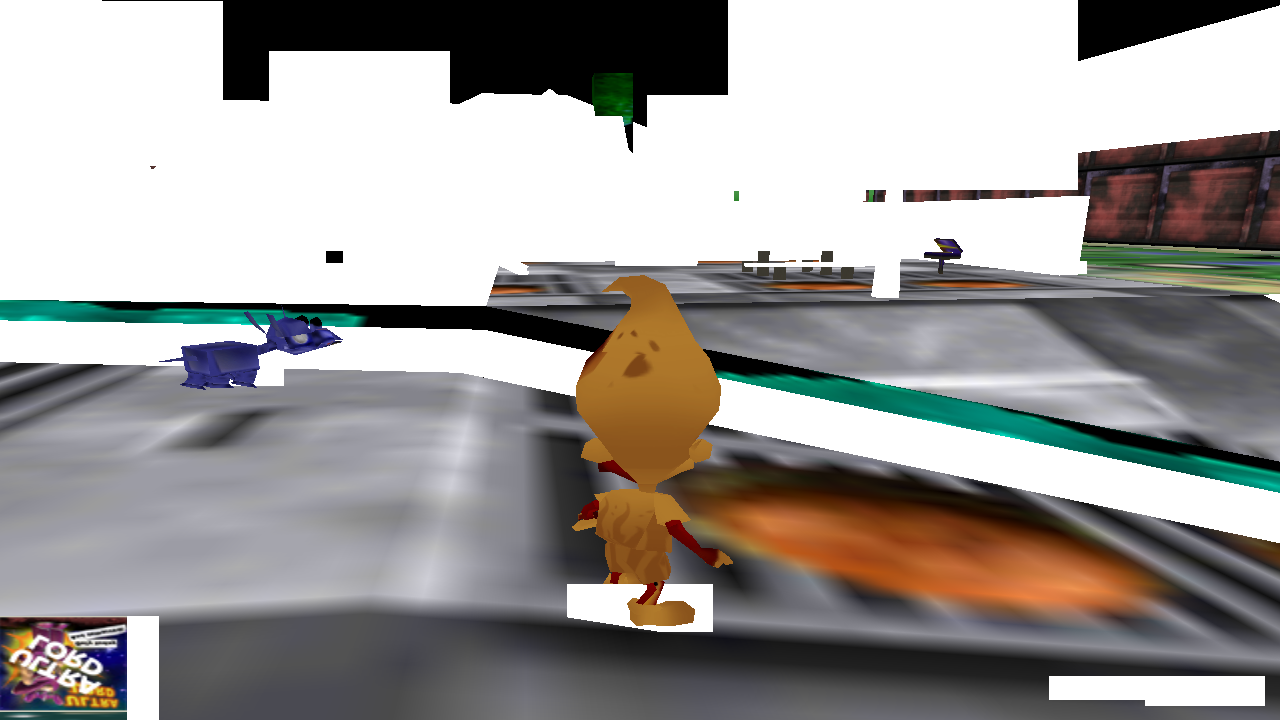
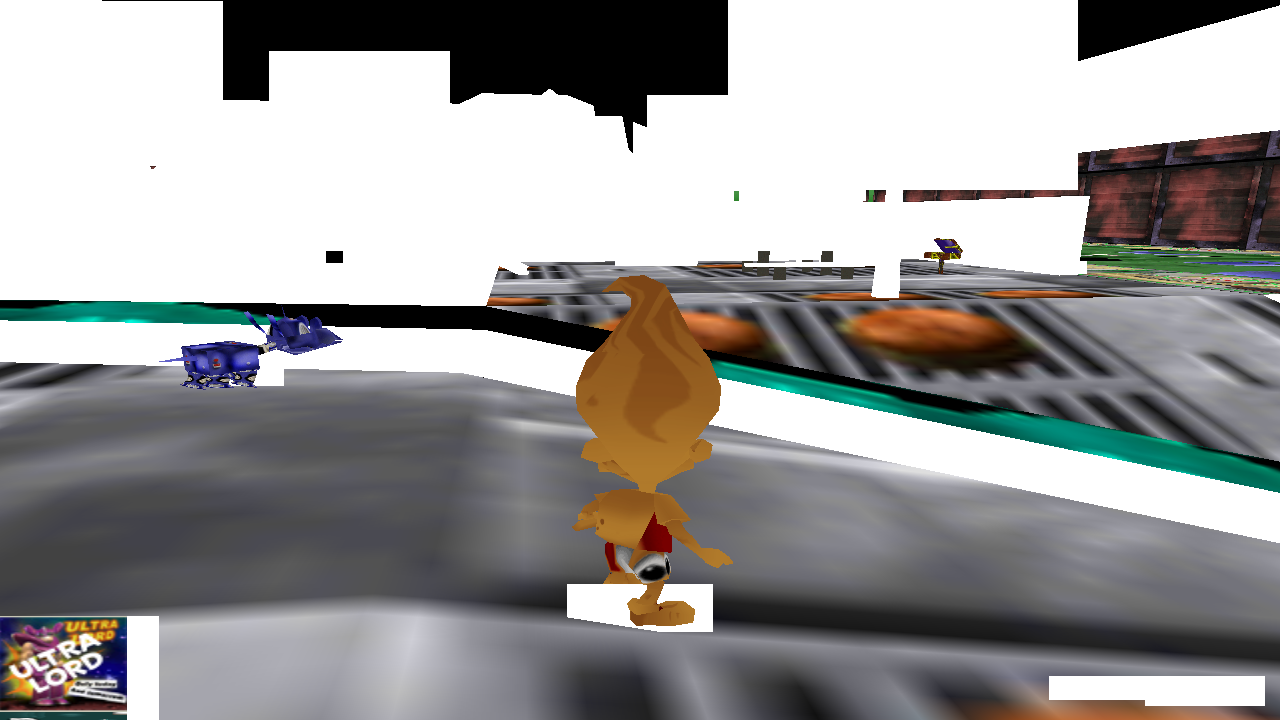
phase12 pivot: validate v3 pipeline locally via PNG-injected stream
inject_pixels_v3.py: read v2 .omtc + texmap, write v3 .omtc with one
TEXTURE_PIXELS record per mapped tex_id (PNG bytes converted to D3D A8R8G8B8
byte order = BGRA, 32 bpp). Output runs end-to-end through the v3 path
(extractor + receiver passthrough + replay.c REC_TEXTURE_PIXELS handler).
Replay confirms: textured Retroville renders identically to the sidecar
path, with NO JN_REPLAY_TEX_MAP set -- textures come exclusively from the
in-stream pixel payloads.

Proves the v3 protocol is correct without needing XP. When the real
recapture happens, only the source-of-pixels variable changes (proxy-locked
surface bytes vs PNG-derived bytes); the entire pipeline around it is
already validated.

diff --git a/instrument/diff/inject_pixels_v3.py b/instrument/diff/inject_pixels_v3.py
@@ -1,0 +1,123 @@
+#!/usr/bin/env python3
+r"""
+inject_pixels_v3.py -- bootstrap a v3 .omtc from a v2 capture + local PNGs.
+
+The proxy v3 extension (TEXTURE_PIXELS) needs an XP redeploy + recapture to
+take effect for real. To validate the v3 pipeline end-to-end *without* XP,
+this tool reads an existing v2 .omtc + the heuristic texmap (sidecar PNGs),
+and writes a v3 .omtc by inserting one TEXTURE_PIXELS record right after each
+TEXTURE_DEF whose tex_id is in the map. Pixels come from the PNG converted to
+D3D A8R8G8B8 byte order (BGRA, 32 bpp).
+
+The result is NOT pixel-exact (PNGs aren't the original surface bytes), but
+it exercises the proxy's v3 record format, the receiver's passthrough, the
+extractor's v3 awareness, and the replay's REC_TEXTURE_PIXELS handler -- so
+when the real XP recapture happens, the only variable is "do the bytes
+match what's in the stream", everything else is already proven.
+
+Usage:
+  inject_pixels_v3.py <in.omtc> <texmap.json> [--out build/in_v3.omtc]
+"""
+import os
+import sys
+import json
+import struct
+
+HERE = os.path.dirname(os.path.abspath(__file__))
+sys.path.insert(0, HERE)
+sys.path.insert(0, os.path.join(HERE, "..", "receiver"))
+from protocol import (Header, OMTC_MAGIC, pack_record, try_parse_record,  # noqa
+                      RECORD_TEXTURE_DEF)
+
+RECORD_TEXTURE_PIXELS = 14   # v3
+
+
+def png_to_bgra(path):
+    """Decode a PNG and return (w, h, bgra_bytes). Returns None on failure."""
+    from PIL import Image
+    try:
+        img = Image.open(path).convert("RGBA")
+    except Exception as e:
+        print(f"  ! cannot decode {path}: {e}", file=sys.stderr)
+        return None
+    w, h = img.size
+    raw = bytearray(img.tobytes())     # R,G,B,A
+    # Swap R<->B for BGRA (D3D A8R8G8B8 byte order, little-endian).
+    for i in range(0, len(raw), 4):
+        raw[i], raw[i + 2] = raw[i + 2], raw[i]
+    return w, h, bytes(raw)
+
+
+def main():
+    args = sys.argv[1:]
+    if len(args) < 2:
+        print(__doc__); sys.exit(1)
+    src, texmap_path = args[0], args[1]
+    out = None
+    i = 2
+    while i < len(args):
+        if args[i] == "--out":
+            out = args[i + 1]; i += 2
+        else:
+            print(f"unknown arg {args[i]}"); sys.exit(1)
+    if out is None:
+        base, ext = os.path.splitext(src)
+        out = base + "_v3" + ext
+
+    with open(texmap_path) as f:
+        texmap = json.load(f)
+    # Pre-decode PNGs for the texmap (cache).
+    cache = {}
+    for tid_hex, png in texmap.items():
+        if png not in cache:
+            cache[png] = png_to_bgra(png)
+    n_decoded = sum(1 for v in cache.values() if v is not None)
+    print(f"[inject] {n_decoded}/{len(cache)} PNG sources decoded",
+          file=sys.stderr)
+
+    n_injected = 0
+    n_skipped = 0
+    with open(src, "rb") as f, open(out, "wb") as g:
+        # Header verbatim (v2 stream). We don't bump the file header's version
+        # field because Receiver accepts >=1; the new records pass through.
+        head = f.read(Header.size())
+        g.write(head)
+        buf = bytearray()
+        while True:
+            data = f.read(4 << 20)
+            if not data:
+                break
+            buf += data
+            off = 0
+            while True:
+                rec = try_parse_record(buf, off)
+                if rec is None:
+                    break
+                rt, payload, off = rec
+                # Re-emit the original record.
+                g.write(pack_record(rt, payload))
+                # On TEXTURE_DEF: if we have pixels for this tex_id, append
+                # a TEXTURE_PIXELS record right after.
+                if rt == RECORD_TEXTURE_DEF:
+                    tid = struct.unpack_from('<I', payload, 0)[0]
+                    key = f"{tid:08x}"
+                    png = texmap.get(key)
+                    if png and cache.get(png):
+                        w, h, bgra = cache[png]
+                        # Header: tex_id u32, w u16, h u16, bpp u32, pixel_bytes u32
+                        hdr = struct.pack('<IHHII', tid, w, h, 32, len(bgra))
+                        g.write(pack_record(RECORD_TEXTURE_PIXELS,
+                                            hdr + bgra))
+                        n_injected += 1
+                    else:
+                        n_skipped += 1
+            if off:
+                del buf[:off]
+    sz = os.path.getsize(out)
+    print(f"[inject] wrote {out} ({sz} B); injected {n_injected} "
+          f"TEXTURE_PIXELS, skipped {n_skipped} (unmapped tex_ids)",
+          file=sys.stderr)
+
+
+if __name__ == "__main__":
+    main()
